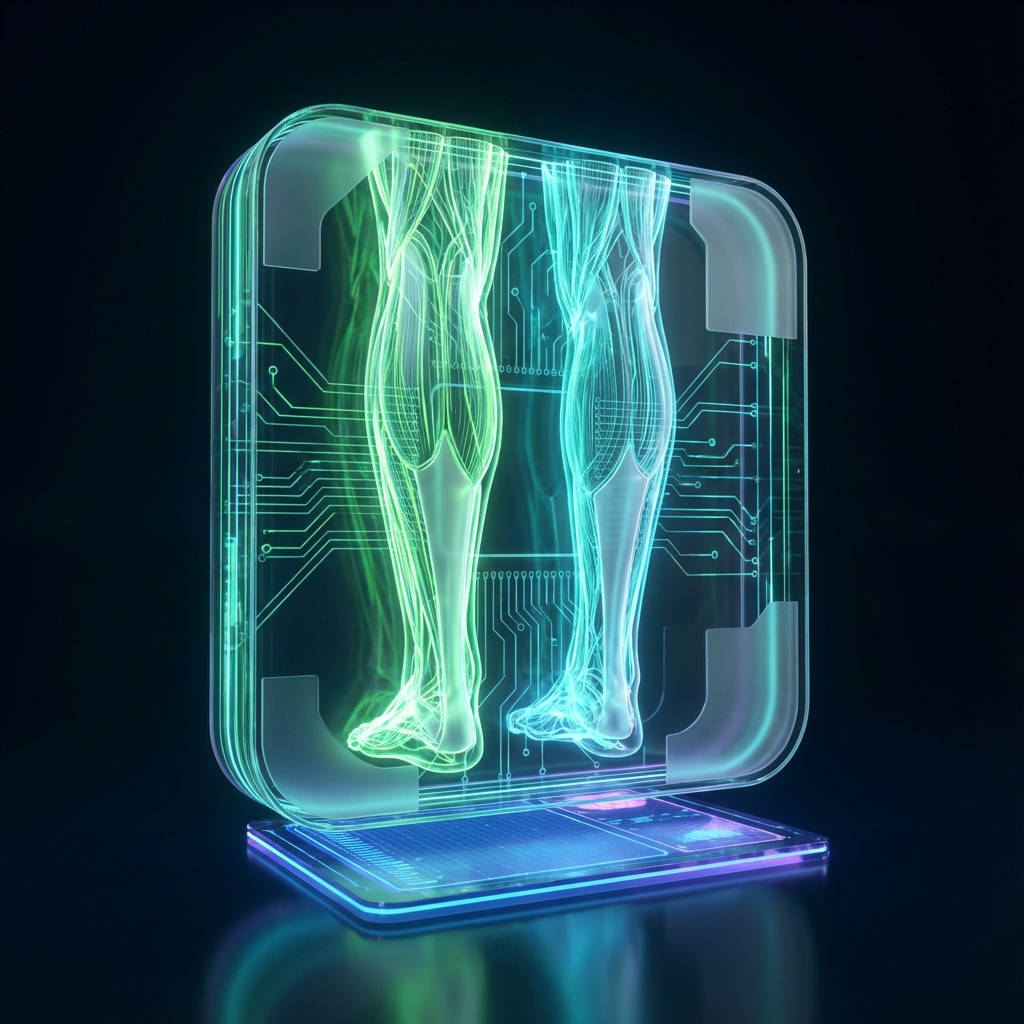
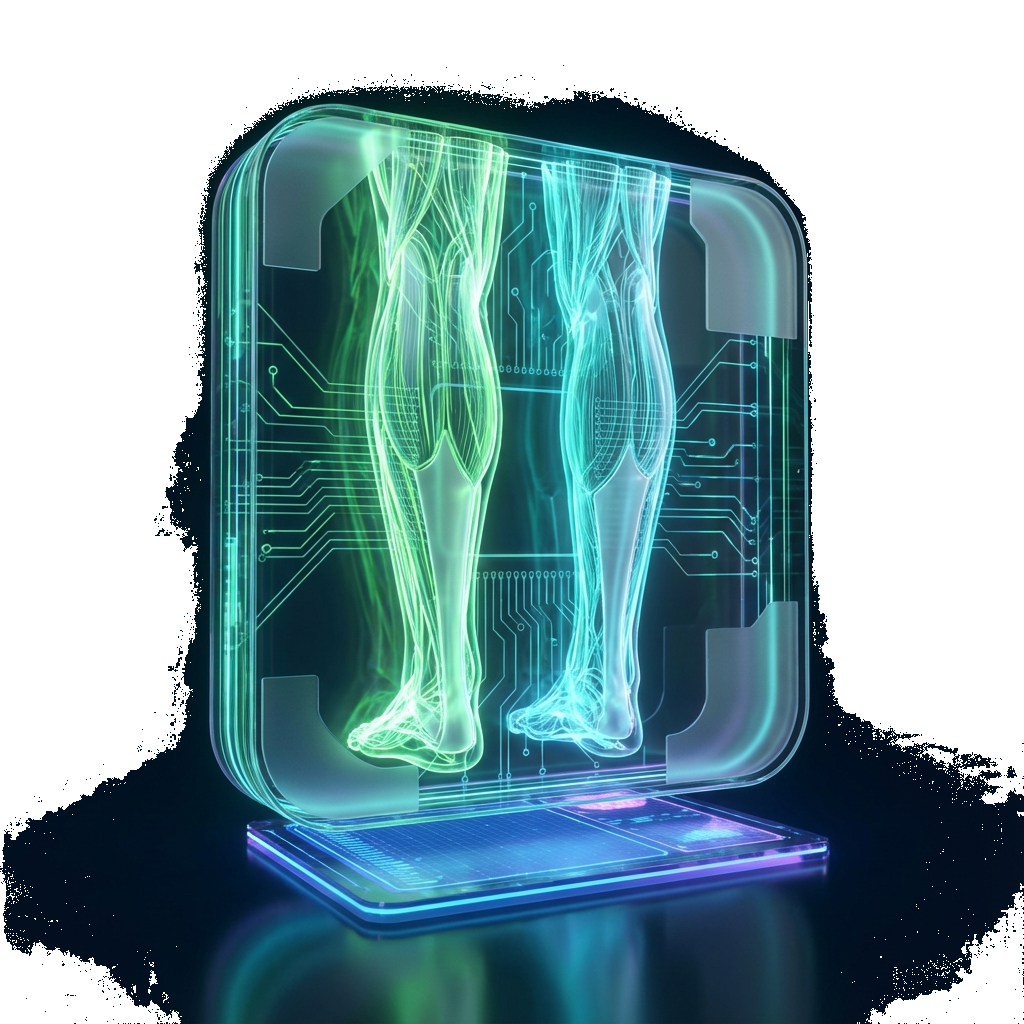
feat: replace black background images with transparent PNGs (physically processed)

diff --git a/index.html b/index.html
@@ -6,7 +6,7 @@
     <meta name="viewport" content="width=device-width, initial-scale=1.0">
     <meta name="description" content="네오핏 마산점 운동 기구 사용법 가이드 - 34개 운동 기구 영상 및 상세 설명">
     <title>네오핏 마산점 - 운동 기구 사용법 가이드</title>
-    <link rel="stylesheet" href="style.css?v=9">
+    <link rel="stylesheet" href="style.css?v=10">
 </head>
 
 <body>
